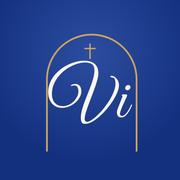
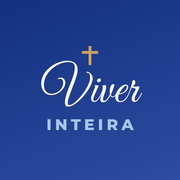
Ícone com o nome escrito (opção 4)
Claude-Session: https://claude.ai/code/session_01FW4rYsFDF34nGeQjhwBhYo

Changed region(s): [[0.0278, 0.1667, 1.0, 1.0]]

diff --git a/sw.js b/sw.js
@@ -1,5 +1,5 @@
 // Guarda o app para abrir mesmo sem internet. Os dados vêm do Supabase quando há conexão.
-var CACHE = 'vi-v4';
+var CACHE = 'vi-v5';
 var FILES = ['./', 'index.html', 'style.css', 'app.js', 'conteudo.js', 'evangelhos.js', 'config.js', 'supabase.js', 'manifest.webmanifest', 'icon-192.png'];
 self.addEventListener('install', function(e){ e.waitUntil(caches.open(CACHE).then(function(c){ return c.addAll(FILES); })); self.skipWaiting(); });
 self.addEventListener('activate', function(e){ e.waitUntil(caches.keys().then(function(ks){ return Promise.all(ks.filter(function(k){ return k !== CACHE; }).map(function(k){ return caches.delete(k); })); })); self.clients.claim(); });

diff --git a/index.html b/index.html
@@ -8,8 +8,8 @@
 <meta name="apple-mobile-web-app-capable" content="yes">
 <meta name="apple-mobile-web-app-title" content="Viver Inteira">
 <link rel="manifest" href="manifest.webmanifest">
-<link rel="icon" href="icon-192.png?v=2">
-<link rel="apple-touch-icon" href="apple-touch-icon.png?v=2">
+<link rel="icon" href="icon-192.png?v=3">
+<link rel="apple-touch-icon" href="apple-touch-icon.png?v=3">
 <link rel="stylesheet" href="https://fonts.googleapis.com/css2?family=Great+Vibes&family=Lora:ital,wght@0,400;0,500;1,400&family=Montserrat:wght@400;500;600;700;800&display=swap">
 <link rel="stylesheet" href="style.css?v=2">
 </head>
